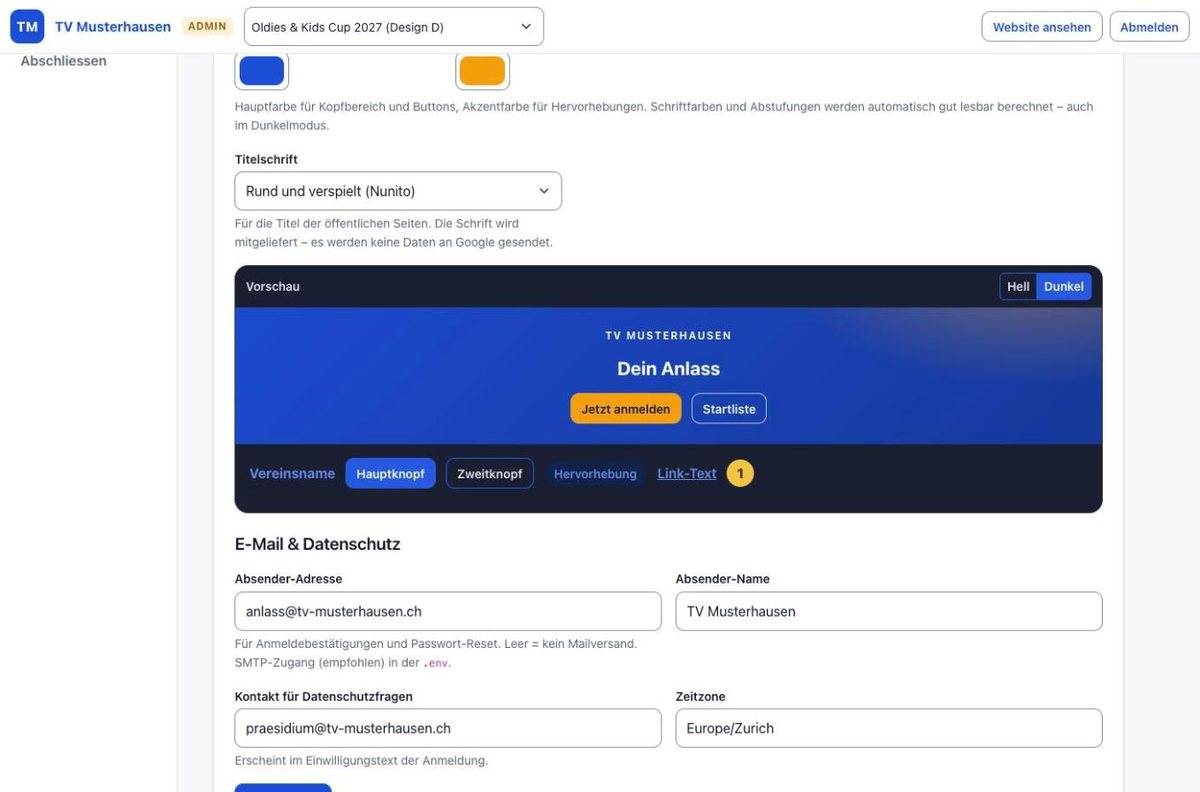
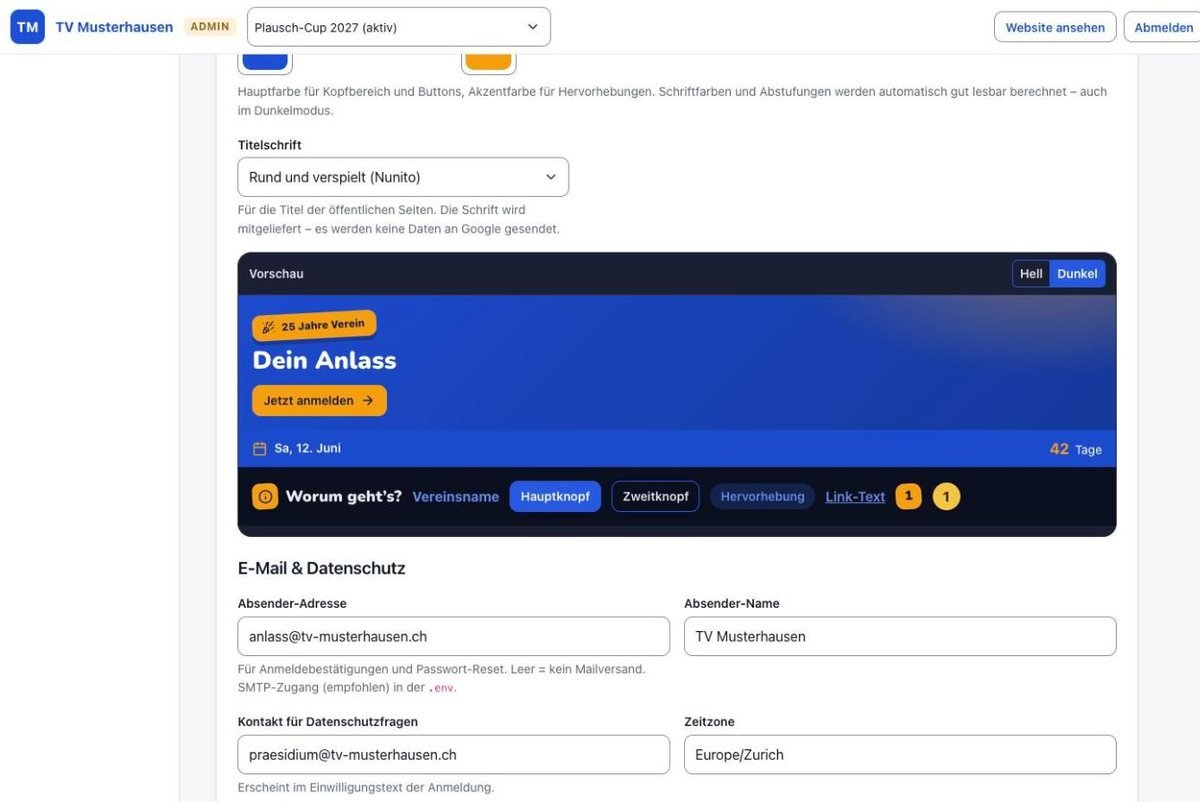
v0.12.2: Farb-Vorschau im neuen Design, Kampfrichter-Zugang ohne Vereinsnamen

diff --git a/assets/css/app.css b/assets/css/app.css
@@ -944,17 +944,25 @@ html { scroll-padding-top: 5rem; scroll-padding-bottom: 6rem; } /* Fokus nicht u
 .theme-preview[data-mode="light"] { --surface: #FFFFFF; --surface-alt: #F6F7F9; --surface-raised: #FFFFFF; --border: #E3E6EB; --border-input: #858D9B; --text: #111827; --text-muted: #5B6472; --btn-outline-border: var(--border-input); --btn-outline-color: var(--brand-text); --warning: #8A5200; --warning-subtle: #FEF3C7; }
 .theme-preview[data-mode="dark"] { --surface: #111827; --surface-alt: #0B1220; --surface-raised: #1A2333; --border: #2A3445; --border-input: #68758A; --text: #E7EAF0; --text-muted: #9AA4B2; --btn-outline-border: var(--brand); --btn-outline-color: var(--text); --warning: #FBBF24; --warning-subtle: #36290B; }
 .theme-preview-surface { background: var(--surface-alt); color: var(--text); }
+/* Vorschau im Stil der Startseite (ab 0.12.2): Kopf links bündig mit Sticker, Info-Leiste, Bausteine */
 .theme-preview .tp-hero {
-    padding: var(--space-5) var(--space-4);
-    text-align: center;
+    padding: var(--space-5) var(--space-4) var(--space-4);
+    text-align: left;
     color: var(--hero-text);
     background:
         radial-gradient(30rem 14rem at 92% -30%, rgba(var(--hero-glow-rgb), var(--hero-glow-alpha)), transparent 62%),
         linear-gradient(135deg, var(--hero-a), var(--hero-b));
 }
-.theme-preview .tp-title { display: block; font-size: var(--fs-xl); margin-bottom: var(--space-3); }
-.theme-preview .hero-actions { margin-top: 0; }
-.theme-preview .tp-body { display: flex; flex-wrap: wrap; align-items: center; gap: var(--space-3); padding: var(--space-4); background: var(--surface-raised); }
+.theme-preview .tp-hero .sticker { margin-bottom: var(--space-2); font-size: var(--fs-xs); }
+.theme-preview .tp-title { display: block; font-family: var(--font-display); font-weight: 900; font-size: 1.8rem; line-height: 1.05; margin-bottom: var(--space-3); }
+.theme-preview .tp-bar { display: flex; align-items: center; justify-content: space-between; gap: var(--space-3); padding: var(--space-2) var(--space-4); background: var(--hero-a); color: var(--hero-text); font-size: var(--fs-sm); }
+.theme-preview .tp-bar .ico { color: var(--hero-accent); }
+.theme-preview .tp-countdown b { color: var(--hero-accent); font-size: 1.1rem; margin-right: 0.2rem; }
+.theme-preview .tp-heading { display: inline-flex; align-items: center; gap: var(--space-2); font-family: var(--font-display); font-weight: 900; font-size: 1.15rem; }
+.theme-preview .tp-heading .home-badge { width: 1.9rem; height: 1.9rem; border-radius: 0.55rem; }
+.theme-preview .tp-heading .home-badge .ico { width: 1.05rem; height: 1.05rem; }
+.theme-preview .tp-no { position: static; width: 1.9rem; height: 1.9rem; font-size: 0.95rem; }
+.theme-preview .tp-body { display: flex; flex-wrap: wrap; align-items: center; gap: var(--space-3); padding: var(--space-4); background: var(--surface-alt); }
 .theme-preview .tp-link { color: var(--brand-text); text-decoration: underline; font-weight: 600; }
 /* Vereinsname in der Kopfzeile: eigene Farbe, sonst Markenfarbe (var-Fallback wie in .app-brand). */
 .theme-preview .tp-brand { font-weight: 700; color: var(--club-name-color, var(--brand-text)); }

diff --git a/assets/js/theme-preview.js b/assets/js/theme-preview.js
@@ -55,5 +55,8 @@
     if (nameLight) nameLight.addEventListener('input', schedule);
     if (nameDark) nameDark.addEventListener('input', schedule);
     buttons.forEach((button) => button.addEventListener('click', () => { mode = button.dataset.modeButton; render(); }));
+    // Titelschrift sofort in der Vorschau zeigen (rund = Nunito, schlicht = Systemschrift)
+    const font = document.getElementById('heading_font');
+    if (font) font.addEventListener('change', () => box.classList.toggle('font-rounded', font.value !== 'system'));
     load();
 })();

diff --git a/templates/admin/settings.php b/templates/admin/settings.php
@@ -64,7 +64,7 @@ $v = static fn (string $key): string => e($old[$key] ?? '');
             <div class="form-text" id="heading_font_help">Für die Titel der öffentlichen Seiten. Die Schrift wird mitgeliefert – es werden keine Daten an Google gesendet.</div>
         </div>
 
-        <div class="theme-preview mb-4" id="theme-preview" data-url="<?= e(url('admin/theme-vorschau.php')) ?>" data-mode="light" aria-label="Vorschau der Vereinsfarben">
+        <div class="theme-preview mb-4<?= ($old['heading_font'] ?? 'rounded') !== 'system' ? ' font-rounded' : '' ?>" id="theme-preview" data-url="<?= e(url('admin/theme-vorschau.php')) ?>" data-mode="light" aria-label="Vorschau der Vereinsfarben">
             <div class="theme-preview-bar">
                 <span class="small fw-semibold">Vorschau</span>
                 <div class="btn-group btn-group-sm" role="group" aria-label="Darstellung">
@@ -74,16 +74,22 @@ $v = static fn (string $key): string => e($old[$key] ?? '');
             </div>
             <div class="theme-preview-surface">
                 <div class="tp-hero">
-                    <span class="hero-eyebrow"><?= e($old['club_name'] ?? '') ?></span>
+                    <span class="sticker"><?= icon('party') ?>25 Jahre Verein</span>
                     <strong class="tp-title">Dein Anlass</strong>
-                    <div class="hero-actions"><span class="btn btn-accent btn-sm">Jetzt anmelden</span><span class="btn btn-hero-ghost btn-sm">Startliste</span></div>
+                    <span class="btn btn-accent btn-sm">Jetzt anmelden<?= icon('arrow', 'ico ico-go') ?></span>
+                </div>
+                <div class="tp-bar">
+                    <span class="hero-bar-item"><?= icon('calendar') ?>Sa, 12. Juni</span>
+                    <span class="tp-countdown"><b>42</b> Tage</span>
                 </div>
                 <div class="tp-body">
+                    <span class="tp-heading"><span class="home-badge"><?= icon('info') ?></span>Worum geht’s?</span>
                     <span class="tp-brand">Vereinsname</span>
                     <span class="btn btn-primary btn-sm">Hauptknopf</span>
                     <span class="btn btn-outline-primary btn-sm">Zweitknopf</span>
                     <span class="badge-soft">Hervorhebung</span>
                     <span class="tp-link">Link-Text</span>
+                    <span class="disc-no tp-no" aria-hidden="true">1</span>
                     <span class="rank-badge rank-1">1</span>
                 </div>
             </div>

diff --git a/templates/layout-judge.php b/templates/layout-judge.php
@@ -25,7 +25,8 @@
     <div class="container container-narrow d-flex align-items-center gap-3">
         <span class="app-brand judge-logo"><?php $logoAlt = ''; require __DIR__ . '/partials/logo.php'; ?></span>
         <div class="flex-grow-1 min-w-0">
-            <div class="judge-event text-truncate"><?= e($judge['event']['title'] ?? $clubName) ?></div>
+            <?php /* Angemeldet: Anlass; beim Login statt des Vereinsnamens (sonst in Titelschrift, anders als überall) ein Seitentitel */ ?>
+            <div class="judge-event text-truncate"><?= e($judge['event']['title'] ?? 'Kampfrichter-Zugang') ?></div>
             <?php if (!empty($judge)): ?>
                 <div class="judge-name text-truncate">Kampfrichter: <?= e($judge['name']) ?></div>
             <?php endif; ?>

diff --git a/templates/judge/login.php b/templates/judge/login.php
@@ -5,7 +5,7 @@
     <div class="card">
         <div class="card-body">
             <span class="eyebrow"><?= e($loginEvent['title']) ?></span>
-            <h1 class="h3 mb-3">Kampfrichter-Zugang</h1>
+            <h1 class="h3 mb-3">Code eingeben</h1>
             <p class="text-muted">Den Code erhältst du von der Wettkampfleitung. Dein Name wird bei jedem erfassten Resultat gespeichert.</p>
             <?php if ($error): ?>
                 <div class="alert alert-danger" role="alert"><?= e($error) ?></div>

diff --git a/src/bootstrap.php b/src/bootstrap.php
@@ -10,7 +10,7 @@ if (defined('APP_ROOT')) {
 }
 
 define('APP_ROOT', dirname(__DIR__));
-define('APP_VERSION', '0.12.1');
+define('APP_VERSION', '0.12.2');
 
 if (PHP_VERSION_ID < 80100) {
     http_response_code(500);

diff --git a/CHANGELOG.md b/CHANGELOG.md
@@ -2,6 +2,13 @@
 
 Das Format orientiert sich an [Keep a Changelog](https://keepachangelog.com/de/1.1.0/), die Versionen an [Semantic Versioning](https://semver.org/lang/de/).
 
+## [0.12.2] – 2026-11-01
+
+### Geändert
+- «Verein & Design»: Die Farb-Vorschau zeigt das aktuelle Design – Kopf links bündig mit Sticker und runder Titelschrift, Info-Leiste mit Countdown in der Akzentfarbe, Überschrift mit Symbol und Nummern-Sticker. Die Titelschrift wechselt in der Vorschau sofort beim Umstellen; im Dunkelmodus erscheinen die getönten Flächen wie auf der Website
+- Kampfrichter-Zugang: Im Kopf steht «Kampfrichter-Zugang» statt des Vereinsnamens (der dort als einzige Stelle in der Titelschrift erschien), die Karte darunter heisst knapp «Code eingeben»; angemeldet steht im Kopf wie bisher der Anlass
+- README: Screenshot «Verein & Design» mit der neuen Vorschau
+
 ## [0.12.1] – 2026-11-01
 
 ### Geändert
